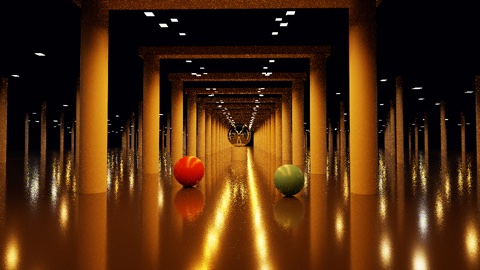
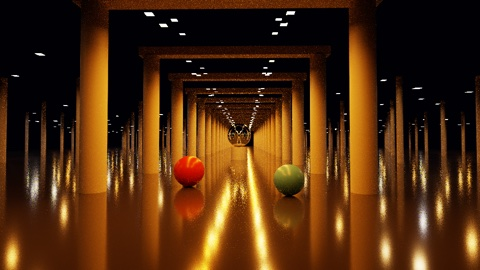
Thumbnails: Cornell Fog with fog, cleaner spectral and Veach renders, square films cropped to 16:9

diff --git a/Sources/ExampleScenes.swift b/Sources/ExampleScenes.swift
@@ -316,6 +316,11 @@ struct ShowcaseShot: Decodable, Sendable {
   // A saved view of the imported scene ("glTF: camera_front") as the camera, before yaw, pitch and the
   // other camera fields adjust it.
   var view: String?
+  // The sample count of the scene browser's thumbnail (scripts/render_showcase.py --thumbnails), instead of the
+  // shot's own capped at 256.
+  var thumbnailSamples: UInt32?
+  // A shot for the thumbnail run alone, which the README showcase run skips (a built-in scene's thumbnail settings).
+  var thumbnailOnly: Bool?
 
   static func load(_ url: URL) throws -> [ShowcaseShot] {
     try JSONDecoder().decode([ShowcaseShot].self, from: Data(contentsOf: url))

diff --git a/scripts/render_showcase.py b/scripts/render_showcase.py
@@ -20,12 +20,15 @@ before rendering when one is missing, with one line naming the shot and the file
 
 --thumbnails renders the scene browser's thumbnails instead: for each entry of SceneCatalog.entries (read by the Swift
 driver, so there is no second list here) but the SceneCatalog.thumbnailExempt scenes, the entry's shot (a built-in
-scene: its scene index at the default view; an imported scene, Mitsuba included, with its own camera or the
-shot's view) at 960 x 540 with at most 256 spp and no denoiser, downsampled to
+scene: its scene index at the default view, or the thumbnailOnly shot named like the entry, which sets its options
+(Cornell Fog: "fog": 1, the Atmosphere menu's Fog preview); an imported scene, Mitsuba included, with its own camera or the
+shot's view) at 960 x 540 with the shot's "thumbnailSamples", else at most 256 spp (the spectral scenes and the Veach Bidir
+Room set more) and no denoiser, downsampled to
 480 x 270 and written as JPEG (quality 0.85) to Examples/Thumbnails/<id>.jpg, with the ids in
 Examples/Thumbnails/scene-ids.txt for scripts/check_bundle.py. The thumbnail's size replaces the scene's own film
-size, and a camera of another aspect ratio, such as a square film, keeps its vertical field of view (the shot's
-sizes are applied after the importer's), so the 16:9 frame shows more to the sides. --only then names catalog ids. A scene whose files are
+size, and a camera whose film is narrower than 16:9, such as a square film, keeps its horizontal field of view (the
+vertical one shrinks to fill the 16:9 frame, which crops the film's horizontal band; a shot with its own "fov" is left as it
+is). The README showcase run skips thumbnailOnly shots. --only then names catalog ids. A scene whose files are
 not installed is skipped, and one whose render fails is reported, and both are listed at the end while the run goes
 on. A failed render removes that id's old JPEG and makes the exit status non-zero after every entry was tried; a
 skipped scene keeps its JPEG and the exit status is 0.
@@ -87,7 +90,9 @@ struct ExportFailure: LocalizedError {
 }
 
 // Imports the shot's scene, applies its settings and exports it to outputFolder (PNG, or EXR for a raw shot).
-@MainActor func render(_ shot: ShowcaseShot) throws -> URL {
+// With fillFrame, a camera whose film is narrower than 16:9 (a square film) keeps its horizontal field of view at the
+// shot's 16:9 size, so the frame crops the film's horizontal band instead of showing more to the sides.
+@MainActor func render(_ shot: ShowcaseShot, fillFrame: Bool = false) throws -> URL {
   var p: ProjectDocument
   if let path = shot.usd {
     p = try USDImporter.load(URL(fileURLWithPath: path), into: ProjectDocument()).document
@@ -132,7 +137,13 @@ struct ExportFailure: LocalizedError {
     p.environmentData = try Data(contentsOf: URL(fileURLWithPath: hdri))
     p.environmentName = URL(fileURLWithPath: hdri).lastPathComponent
   }
+  let film = Float(p.options.outputWidth) / Float(max(p.options.outputHeight, 1))
   shot.apply(to: &p)
+  if fillFrame, shot.fov == nil, film < 16.0 / 9.0, let width = shot.width, let height = shot.height {
+    let tanHalf = tan(p.camera.fov * .pi / 360) * film * Float(height) / Float(width)
+    p.camera.fov = 2 * atan(tanHalf) * 180 / .pi
+    print("\(shot.name): film aspect \(film) kept horizontally, vertical fov \(p.camera.fov)")
+  }
   if shot.samples == nil { p.options.exportSamples = 1024 }
   try controller.restore(p)
   if let side = testRenderer.materials.graphTextureSide {
@@ -199,7 +210,9 @@ if CommandLine.arguments.count > 4, CommandLine.arguments[3] == "--thumbnails" {
   var skipped: [String] = [], failed: [String] = []
   for entry in SceneCatalog.entries where ids.contains(entry.id) && (only.isEmpty || only.contains(entry.id)) {
     var shot: ShowcaseShot
-    if case .builtIn(let index) = entry.source {
+    if let found = shots.first(where: { $0.name == entry.id && $0.thumbnailOnly == true }) {
+      shot = found
+    } else if case .builtIn(let index) = entry.source {
       shot = try JSONDecoder().decode(ShowcaseShot.self, from: Data("{\"name\": \"\(entry.id)\", \"scene\": \(index)}".utf8))
     } else if let found = shots.first(where: { $0.name == entry.shot }) {
       shot = found
@@ -212,13 +225,14 @@ if CommandLine.arguments.count > 4, CommandLine.arguments[3] == "--thumbnails" {
       continue
     }
     shot.name = "thumbnail-" + entry.id
-    (shot.width, shot.height, shot.samples) = (960, 540, min(shot.samples ?? 256, 256))
+    (shot.width, shot.height) = (960, 540)
+    shot.samples = shot.thumbnailSamples ?? min(shot.samples ?? 256, 256)
     (shot.denoise, shot.raw, shot.keepRaw) = (false, false, nil)
     // A failed render leaves no image, so the bundle check and the tests see it instead of a stale one.
     let jpeg = thumbnailFolder.appendingPathComponent(entry.id + ".jpg")
     try? FileManager.default.removeItem(at: jpeg)
     do {
-      let png = try render(shot)
+      let png = try render(shot, fillFrame: true)
       try writeThumbnail(png, to: jpeg)
       try? FileManager.default.removeItem(at: png)
       print("\(entry.id): wrote Examples/Thumbnails/\(entry.id).jpg")
@@ -232,13 +246,13 @@ if CommandLine.arguments.count > 4, CommandLine.arguments[3] == "--thumbnails" {
   if skipped.isEmpty { print("All thumbnails rendered") }
 } else {
   // A shot whose scene file is not unpacked stops the run before any shot renders.
-  for shot in shots {
+  for shot in shots where shot.thumbnailOnly != true {
     if let path = shot.usd ?? shot.gltf ?? shot.mitsuba ?? shot.obj, !FileManager.default.fileExists(atPath: path) {
       fputs("FAIL: \(shot.name): scene file \(path) is missing\n", stderr)
       exit(1)
     }
   }
-  for shot in shots {
+  for shot in shots where shot.thumbnailOnly != true {
     do { _ = try render(shot) } catch let failure as ExportFailure {
       fputs((failure.errorDescription ?? "FAIL") + "\n", stderr)
       exit(1)

diff --git a/CHANGELOG.md b/CHANGELOG.md
@@ -10,7 +10,7 @@ Metal Vibe Tracer is in early development: releases are validated builds, not st
 - **Open Recent:** project files you open, save or save as are added to the system's recent-documents list, shown on the main menu and in **File › Open Recent** (with **Clear Menu**). Opening one asks before discarding unsaved changes like **Open Project…**; a file that has moved is removed from the list with a message in the status line, while one on an external or network volume that is not connected stays listed.
 - **Scene browser:** one catalog and one browser replace the start screen's scene buttons, the inspector's **Scene** popup, the **File › Open Example Scene** submenu and the Spectral examples and Example scenes sections of the Project & Export page. The browser lives in its own **Scenes** window, which holds the scenes only, can be resized and remembers its frame. It opens only on request, from **Browse Scenes…** on the main menu, **File › Browse Scenes…** (⇧⌘O) or the inspector's **Browse…** button (which replaces the **Scene** popup and names the current scene), whether or not a scene is loaded, and a second request brings it to the front; its close button or Esc closes it. The render keeps running and autosave and the last session are untouched; opening a scene, project or file from it asks before discarding unsaved changes and closes the window. **Credits and Licenses…** and **Show Downloaded Scenes in Finder** are File menu items, and the inspector's **Inspector page** control is labelled. It lists every scene as a card (a 480 × 270 preview, triangles and format, and Included, Download *size* or Installed) with the filters **All**, **Built-in**, **Included**, **Downloads** and **Installed**, a search over titles, tags and credits, and a details pane (summary, specs, collection, credit, license and terms) with a larger preview and **Open** or **Download *size***. Scenes can be chosen while the shaders compile; **Download** stays disabled until they finish.
 - **Downloads in the details pane:** the consent sheet and the progress sheet are gone. A download scene's details pane states the size, source host and folder above **Download**, then shows the progress bar, status line and **Cancel**; nothing is downloaded before the click, the download continues while you select other cards or close the Scenes window, a failure (a full disk, a digest mismatch) shows its error above **Download** again, and finished archives stay installed. A finished download opens the scene when the Scenes window is shown and that discards nothing; over a document with unsaved changes, or while the window is closed, it only selects the scene (**Open** shows) and says so in the status line. Installed downloads add **Show in Finder**. A catalog scene that fails to open (an installed scene's file was deleted or is damaged) leaves the document unchanged and shows its error above **Open** in the details pane, as well as in the status line, so the Scenes window cannot hide it.
-- **Scene thumbnails:** every scene but Happy Buddha and Chinese Dragon ships a 480 × 270 preview render, bundled in `Examples/Thumbnails` and shown on its card and in the details pane (the two Stanford scans show a grey placeholder until their repository terms are confirmed for redistributed renders). `python3 scripts/render_showcase.py --thumbnails` renders them from the showcase shots, not denoised; their credits are in `Examples/Thumbnails/README.md`.
+- **Scene thumbnails:** every scene but Happy Buddha and Chinese Dragon ships a 480 × 270 preview render, bundled in `Examples/Thumbnails` and shown on its card and in the details pane (the two Stanford scans show a grey placeholder until their repository terms are confirmed for redistributed renders). `python3 scripts/render_showcase.py --thumbnails` renders them from the showcase shots, not denoised; their credits are in `Examples/Thumbnails/README.md`. Cornell Fog's thumbnail shows the fog preview, the spectral examples and the Veach Bidir Room render at 512 to 1,024 spp (a shot's `thumbnailSamples`) to cut their grain, and a square film (Veach Bidir Room, Contemporary Bathroom, Water Caustic, Modern Hall) fills the 16:9 thumbnail by cropping, keeping the camera's horizontal field of view, so the black bars are gone.
 - **One Open Scene File entry:** **Open Scene File…** (File menu and main menu) opens a USD, glTF, Mitsuba (`.xml`) or OBJ file as a new scene, replacing the separate **Import OBJ…** and **Open USD or glTF Scene…** entries; an OBJ opens as an untitled scene framed to the model. **Add Model…** on the Objects page appends an OBJ to the current scene; the Objects page has no other import buttons.
 - **Six more download examples** from McGuire's archive: **Bedroom** (a photogrammetry scan, CC BY-SA 4.0), **Breakfast Room**, **Fireplace Room** and **Living Room** (CC BY 3.0; the last two with Benedikt Bitterli's reference cameras), and Stanford's **Happy Buddha** and **Chinese Dragon** (research and non-commercial use). Each is 6–34 MB, pinned by size and SHA-256 like the others, and the details pane states what its license asks of renders. Showcase shots accept `"rotation"` (degrees about X, Y, Z for the imported objects), which stands the Z-up Bedroom upright.
 - **Ten Bitterli scenes as downloads:** the scene browser's new Bitterli collection (Benedikt Bitterli's Rendering Resources) lists **Veach, Bidir Room**, **Veach, Ajar**, **Glass of Water**, **Contemporary Bathroom**, **Water Caustic** and **Little Lamp** (CC0; credit appreciated, not required), and **Country Kitchen**, **The White Room**, **The Grey & White Room** and **Modern Hall** (CC BY 3.0), each 3.6–26.6 MB, pinned by size and SHA-256 like the McGuire scenes. They open through the Mitsuba importer as untitled projects with their own cameras (the saved view **Mitsuba: camera**), render sizes, path depths, lights and materials, with a status line instead of the import report sheet; the credit begins the report. Water Caustic opens with **Caustics** set to light tracing + photons. **Credits and Licenses…** names both archives and offers both websites.

diff --git a/REFERENCES.md b/REFERENCES.md
@@ -1109,7 +1109,7 @@ Results of 2026-10-21 (same settings; volpath references for the scenes with mas
 
 **2026-11-05 Grey & White Room plants:** with its sky as a dome (`OPENUSD`), the scene's mean ratio was 1.002 but the plants left of the fireplace and the wall and floor behind them were 22–44% brighter than Mitsuba at 256 and 2,048 spp (the room has no window glass; its `dielectric` is the bottle and glasses on the table). Bisection: removing the four `Leaves` shapes gave 0.99–1.00; opaque leaves (the `mask` dropped) left +6–11%; the whole scene flattened, or only the leaves flattened to grey with every other material kept, matched within 1%; the leaves alone over the floor under the open sky matched. So the leaves' colour map was the cause: `leaf.png` is white outside `leaf_mask.png`, and bounce rays (cone widened at diffuse vertices) read it at coarse mips that average the white in, while the mask is read at mip 0. Cutout slots now read their images at mip 0 (`RAYCONES2021`, 2026-11-05); the region is within 1% (tests/PERFORMANCE.md, Mitsuba 3 at equal settings). The opaque-leaf variant, whose white margins are visible surface (not a scene that exists), keeps +6–11% after the change; it was not investigated further.
 
-**2026-11-12 scene browser thumbnails (implemented):** the ten catalog scenes' thumbnails are renders of the scene files opened through `MitsubaImporter.load` (scene camera, area emitters, path depth, OpenPBR materials), adapted works that carry their licenses, shipped as `Examples/Thumbnails/<id>.jpg` (480 × 270, JPEG quality 0.85; `scripts/render_showcase.py --thumbnails`, 960 × 540 at 256 spp, spectral transport, not denoised, with the shot's `view`, and Water Caustic's light tracing + photons caustics): Veach, Bidir Room, Veach, Ajar, Water Caustic (Benedikt Bitterli), Glass of Water (aXel), Contemporary Bathroom (Mareck) and Little Lamp (UP3D), all CC0 (credit appreciated, not required), and Country Kitchen and The White Room (© Jay-Artist), The Grey & White Room (© Wig42) and Modern Hall (© NewSee2l035), CC BY 3.0. A square film (five of the ten scenes) renders at 16:9 with the camera's vertical field of view. [`Examples/Thumbnails/README.md`](Examples/Thumbnails/README.md) lists each image with its author, license, link, render date and command.
+**2026-11-12 scene browser thumbnails (implemented):** the ten catalog scenes' thumbnails are renders of the scene files opened through `MitsubaImporter.load` (scene camera, area emitters, path depth, OpenPBR materials), adapted works that carry their licenses, shipped as `Examples/Thumbnails/<id>.jpg` (480 × 270, JPEG quality 0.85; `scripts/render_showcase.py --thumbnails`, 960 × 540 at 256 spp (the Veach Bidir Room 1,024), spectral transport, not denoised, with the shot's `view`, and Water Caustic's light tracing + photons caustics): Veach, Bidir Room, Veach, Ajar, Water Caustic (Benedikt Bitterli), Glass of Water (aXel), Contemporary Bathroom (Mareck) and Little Lamp (UP3D), all CC0 (credit appreciated, not required), and Country Kitchen and The White Room (© Jay-Artist), The Grey & White Room (© Wig42) and Modern Hall (© NewSee2l035), CC BY 3.0. A square film (five of the ten scenes) renders at 16:9 with the camera's horizontal field of view kept, which crops the film's horizontal band. The built-in Cornell Fog Study's thumbnail renders with the fog preview on (`ShowcaseShot.fog`), and the spectral example scenes' thumbnails render at 512 spp (Tyndall Tank 1,024), per-shot `thumbnailSamples`. [`Examples/Thumbnails/README.md`](Examples/Thumbnails/README.md) lists each image with its author, license, link, render date and command.
 
 **2026-11-12 native importer:** `scripts/compare_scene.py` now renders the app side through `MitsubaImporter` (a `"mitsuba"` shot; film size from the reference file × `--scale`, path depth from the importer, checked against the reference's `max_depth`); Water Caustic is imported from `scene_v0.6.xml` and Mitsuba renders the hand-written `scene_v3.xml`. Settings as on 2026-10-21: half resolution, RGB transport, Standard MIS, app 1,024 spp, Mitsuba 3.9.1 `volpath` 4,096 spp (`metal_ad_rgb`, references rendered that day), Apple M4. Mean ratio app / Mitsuba per channel, median / 90th-percentile relative error of 8 × 8 luminance blocks: Veach Bidir 1.0019 / 0.9951 / 0.9912 (2.1% / 8.0%); Veach Ajar 1.0318 / 1.0338 / 1.0343 (3.4% / 18%); Glass of Water 1.0388 / 1.0430 / 1.0425 (1.3% / 60%); Water Caustic 1.0102 / 0.9717 / 0.9770 (88% / 290%, fireflies of its 5 mm light: a second reference with other seeds differs from the first by 1.0096 / 0.9869 / 0.9931); Little Lamp 1.0554 / 1.0554 / 1.0554 (0.56% / 3.5%); Country Kitchen 0.9714 / 0.9702 / 0.9694 (2.3% / 4.7%); Contemporary Bathroom 1.0008 / 1.0010 / 1.0010 (1.4% / 4.9%); The White Room 0.9924 / 0.9921 / 0.9920 (1.4% / 4.1%); The Grey & White Room 0.9994 / 0.9992 / 0.9991 (1.4% / 4.3%; plants left of the fireplace, 640 × 360 pixels y 200–280, x 48–136, 0.993; right plant 0.988 ± 0.005); Modern Hall 1.0297 / 1.0320 / 1.0217 (3.9% / 7.6%). The side-by-side images have the same framing, textures the right way up, the Grey & White Room's sky placed as in Mitsuba, the lamp lit and Modern Hall's glass tinted. The native import renders as the converter's USD did (Veach Bidir 1.0000 on the same build, and Glass of Water 1.0000 on the same build before the inverted-IOR fix below, a defect the converter shared) except where listed:
 

diff --git a/Examples/Thumbnails/README.md b/Examples/Thumbnails/README.md
@@ -2,17 +2,17 @@
 
 One 480 × 270 JPEG per scene of the scene browser (`SceneCatalog.entries`), shown on its card and in its details pane. They are bundled with the app (`build.sh` copies this folder to `Contents/Resources/Examples/Thumbnails`), and `scene-ids.txt` lists the ids that have one, which `scripts/check_bundle.py` checks.
 
-Metal Vibe Tracer rendered them on 2026-11-11 (the ten Bitterli scenes below on 2026-11-12) on an Apple M4 with
+Metal Vibe Tracer rendered them on 2026-11-11 (the ten Bitterli scenes below, Cornell Fog and the five spectral scenes on 2026-11-12) on an Apple M4 with
 
 ```
 python3 scripts/render_showcase.py --thumbnails
 ```
 
-at 960 × 540 from the scene's `scripts/showcase.json` shot (a built-in scene: its default view), spectral transport, not denoised, at the shot's sample count capped at 256 (256 spp for the built-in, spectral and Bitterli scenes, whose shots carry none, 128 spp for the McGuire scenes), downsampled to 480 × 270 and saved as JPEG at quality 0.85. The renderer code is the checkout of the commit that added this folder.
+at 960 × 540 from the scene's `scripts/showcase.json` shot (a built-in scene: its default view, except Cornell Fog, below), spectral transport, not denoised, at the shot's `thumbnailSamples` or else its sample count capped at 256 (256 spp for the built-in and Bitterli scenes, whose shots carry none, 128 spp for the McGuire scenes; 512 spp for Newton's Colour Series, Abbe Row, Lamp Spectra and Lantern Arcade, and 1,024 spp for Tyndall Tank and the Veach Bidir Room, whose noise 256 spp leaves visible after the downsample), downsampled to 480 × 270 and saved as JPEG at quality 0.85. The renderer code is the checkout of the commit that added this folder.
 
 ## Built-in and bundled scenes
 
-`pavilion`, `cornell-box`, `veach-mis`, `cornell-glass-mirror`, `cornell-fog` and `reflective-ring` are the application's built-in scenes. `newton-series`, `abbe-row`, `tyndall-tank`, `lamp-spectra` and `lantern-arcade` are the OpenUSD stages of [`Examples/Spectral`](../Spectral/README.md), whose notes give their sources. `cornell-fog.jpg` shows the Cornell Fog Study's default state, in which the fog preview is off, so it looks like the Cornell Box with a brighter light.
+`pavilion`, `cornell-box`, `veach-mis`, `cornell-glass-mirror`, `cornell-fog` and `reflective-ring` are the application's built-in scenes. `newton-series`, `abbe-row`, `tyndall-tank`, `lamp-spectra` and `lantern-arcade` are the OpenUSD stages of [`Examples/Spectral`](../Spectral/README.md), whose notes give their sources. The Cornell Fog Study opens with its atmosphere clear, so `cornell-fog.jpg` renders the `cornell-fog` shot (`"fog": 1`, a `thumbnailOnly` shot that the README showcase run skips): the default view with **Atmosphere: Fog preview** switched on, which is what the Lighting page's **Atmosphere** popup gives after opening the scene from the browser and choosing it. The preview is a mild single-scatter haze, seen as a halo around the light and a lifted, slightly desaturated wall colour.
 
 ## Morgan McGuire's Computer Graphics Archive scenes
 
@@ -47,7 +47,7 @@ Each of these images is an adapted work: a render of a scene from [Benedikt Bitt
 | `grey-white-room.jpg` | The Grey & White Room | © Wig42 | [CC BY 3.0](https://creativecommons.org/licenses/by/3.0/) |
 | `modern-hall.jpg` | Modern Hall | © NewSee2l035 | [CC BY 3.0](https://creativecommons.org/licenses/by/3.0/) |
 
-Changes: the scene files were opened through the Mitsuba importer, which translates their Mitsuba materials to OpenPBR and keeps the scene's own camera, area emitters and path depth, and rendered at 960 × 540 (five scenes have square films, the Veach Bidir Room, Contemporary Bathroom, Water Caustic, Little Lamp and Modern Hall, so the 16:9 frame keeps the camera's vertical field of view and shows more to the sides: the Veach Bidir Room and Water Caustic show black bars there, where the model ends) with the showcase shot's view; Water Caustic uses light tracing + photons caustics. Rendered on 2026-11-12 with 256 spp, spectral transport and no denoiser, so the images are grainy, the Veach Bidir Room most (its light is a small lamp and a spotlight).
+Changes: the scene files were opened through the Mitsuba importer, which translates their Mitsuba materials to OpenPBR and keeps the scene's own camera, area emitters and path depth, and rendered at 960 × 540 with the showcase shot's view. Five scenes have square films (the Veach Bidir Room, Contemporary Bathroom, Water Caustic, Little Lamp and Modern Hall): at 16:9 the thumbnail keeps the camera's horizontal field of view, so its vertical field of view shrinks and the image is the horizontal band of the square frame that 16:9 covers (the vertical field of view 20.1° for the Veach Bidir Room, 32.6° for Contemporary Bathroom, 11.0° for Water Caustic and 43.0° for Modern Hall); keeping the vertical one showed the model with black bars to its sides. `lamp.jpg` still shows the earlier framing (the camera's vertical field of view) until it is re-rendered, which uses this framing. Water Caustic uses light tracing + photons caustics. Rendered on 2026-11-12 with 256 spp (the Veach Bidir Room 1,024 spp), spectral transport and no denoiser, so the images keep some grain, Contemporary Bathroom and Water Caustic most.
 
 ## Withheld
 

diff --git a/docs/SCENE_BROWSER_DESIGN.md b/docs/SCENE_BROWSER_DESIGN.md
@@ -85,8 +85,8 @@ Behaviour:
 
 ## 6. Thumbnails
 
-- `scripts/render_showcase.py` gets a thumbnail mode: for each catalog entry it renders the entry's shot (or the built-in scene's default view) at 960 × 540, without the denoiser, and writes a 480 × 270 JPEG (quality 0.85) named `<id>.jpg` into `Examples/Thumbnails`, with the ids that have one in `scene-ids.txt`. The build copies the folder into the bundle, `scripts/check_bundle.py` checks one JPEG per id of that list, and `SceneBrowserView.thumbnail` decodes each image once and keeps it. The Cornell Fog Study's thumbnail shows its default state, fog off, so it looks like the Cornell Box with a brighter light.
-- Download scenes render from the `obj` or `mitsuba` paths of their shots (`build/scenes/…`); the mode skips and lists the ones whose files are missing. A Mitsuba scene renders with its own camera (the shot's `view` "Mitsuba: camera") and path depth; the thumbnail's 960 × 540 replaces the scene's film size, so a camera of another aspect ratio, such as the square film of five of the ten Bitterli scenes, keeps its vertical field of view and the 16:9 frame shows more to the sides.
+- `scripts/render_showcase.py` gets a thumbnail mode: for each catalog entry it renders the entry's shot (or the built-in scene's default view) at 960 × 540, without the denoiser, and writes a 480 × 270 JPEG (quality 0.85) named `<id>.jpg` into `Examples/Thumbnails`, with the ids that have one in `scene-ids.txt`. The build copies the folder into the bundle, `scripts/check_bundle.py` checks one JPEG per id of that list, and `SceneBrowserView.thumbnail` decodes each image once and keeps it. The Cornell Fog Study opens with its atmosphere clear, so its thumbnail renders a `thumbnailOnly` shot of `showcase.json` (`"fog": 1`, the Atmosphere popup's Fog preview) that the README showcase run skips. A shot's `thumbnailSamples` replaces the default of its sample count capped at 256: 512 spp for the spectral examples (Tyndall Tank 1,024) and 1,024 for the Veach Bidir Room, whose grain 256 spp leaves.
+- Download scenes render from the `obj` or `mitsuba` paths of their shots (`build/scenes/…`); the mode skips and lists the ones whose files are missing. A Mitsuba scene renders with its own camera (the shot's `view` "Mitsuba: camera") and path depth; the thumbnail's 960 × 540 replaces the scene's film size, so a camera whose film is narrower than 16:9, such as the square film of five of the ten Bitterli scenes, keeps its horizontal field of view and the 16:9 frame crops the film's horizontal band (a shot's own `fov` is left as it is).
 - A thumbnail of a licensed scene is an adapted work. The details pane shows the credit, license and terms beside the larger preview, and the credits sheet lists every credited work; a card shows only the title, spec line and state. `REFERENCES.md` lists the thumbnails under `MCGUIRE2017` and `BITTERLI2016` with author and license. The Bedroom's thumbnail is shared under CC BY-SA 4.0.
 - **Open question (user to confirm):** whether shipping renders of the Happy Buddha and Chinese Dragon in the app fits the Stanford 3D Scanning Repository terms (`STANFORD3DSCAN`). Until confirmed, those two entries (`SceneCatalog.thumbnailExempt`) have no thumbnail and their cards show a neutral placeholder with the specs; they are not in `scene-ids.txt`.
 
